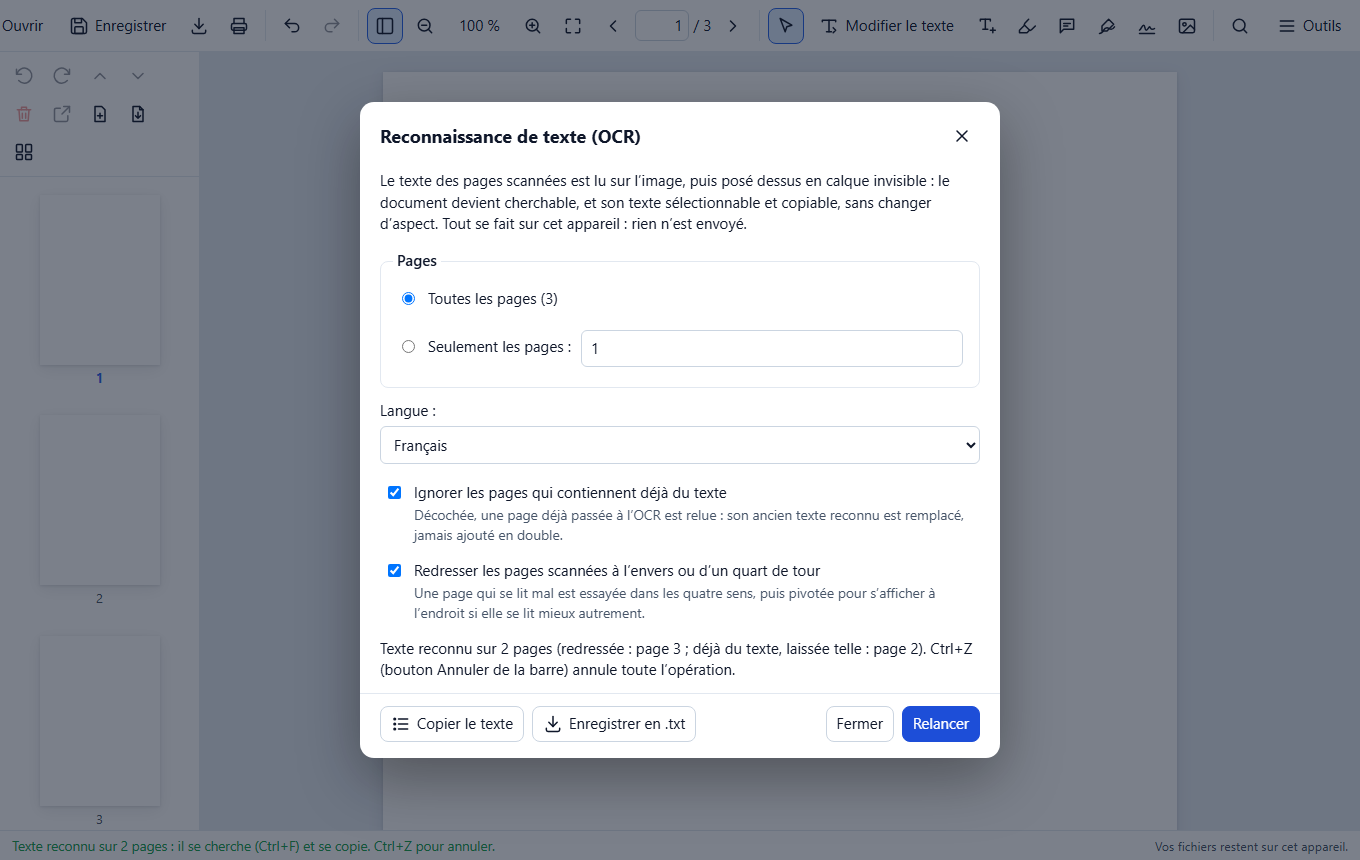
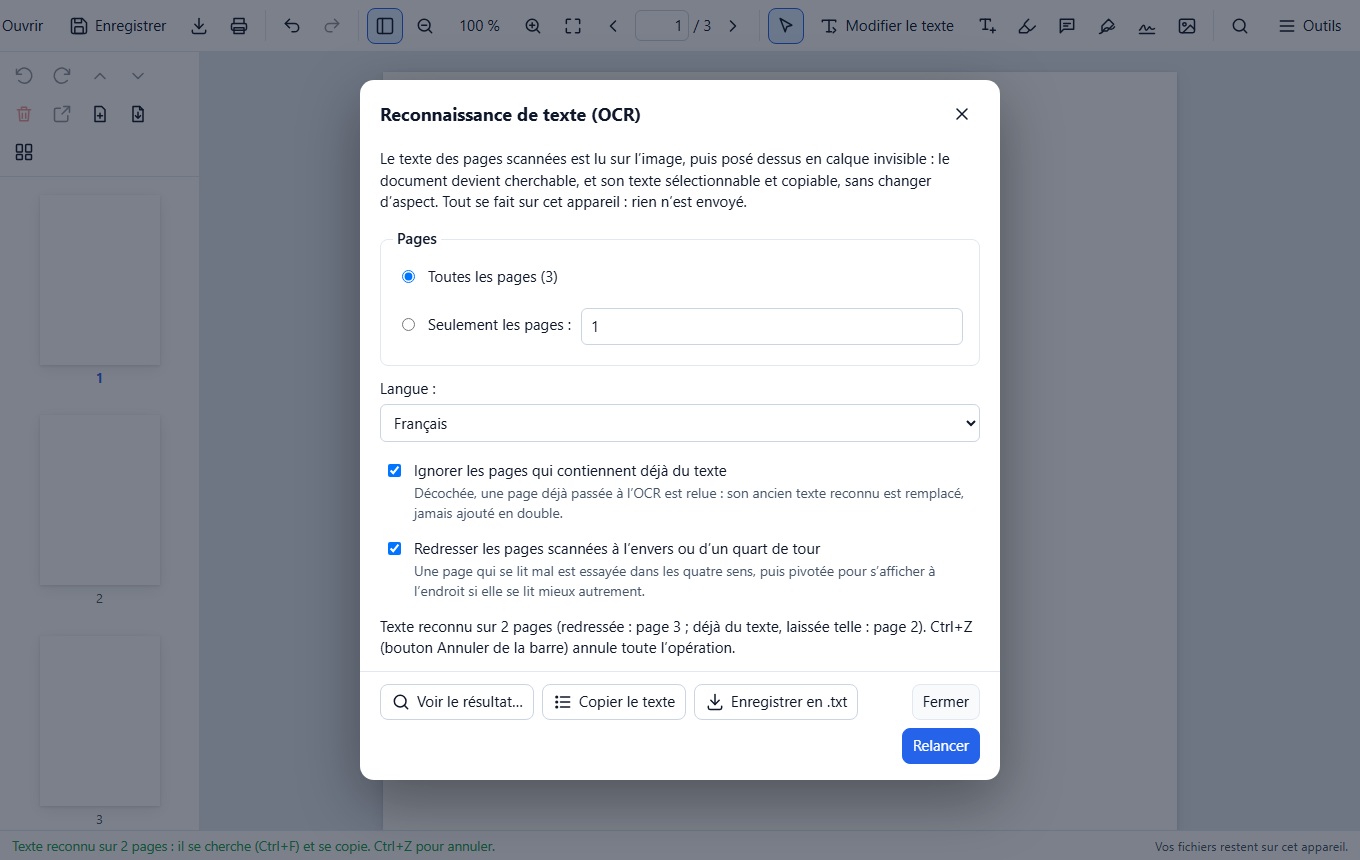
OCR : fenêtre « Texte reconnu » pour voir le résultat et y chercher un mot
« Voir le résultat… » à la fin de la reconnaissance : texte page par page, recherche sans
majuscules ni accents (Entrée, Maj+Entrée), « Montrer dans le document » qui ouvre la
recherche du document sur la même occurrence. Test unitaire, parcours sur ordinateur et
téléphone, captures.

Changed region(s): [[0.2471, 0.4233, 0.7412, 0.907], [0.2471, 0.0907, 0.7412, 0.4233], [0.4324, 0.4233, 0.7103, 0.4535]]

diff --git a/src/ui/ocr.ts b/src/ui/ocr.ts
@@ -13,7 +13,7 @@ import { appel } from "./moteur";
 import { el, fenetre, pluriel, telecharger } from "./dom";
 import { icone } from "./icones";
 import {
-  bilanVide, ErreurOcr, LANGUES_OCR, lirePlages, messageLangueAbsente, motsDeTesseract, reconnaitre, resumeOcr, texteExporte,
+  bilanVide, chercherTexteOcr, ErreurOcr, LANGUES_OCR, lirePlages, messageLangueAbsente, motsDeTesseract, reconnaitre, resumeOcr, texteExporte,
   type BilanOcr, type ImageOcr, type LecteurOcr, type MoteurOcr, type PageTesseract,
 } from "../moteur/ocrLecture";
 
@@ -138,11 +138,12 @@ export async function reconnaissanceTexte(app: Application) {
       el("span", { class: "indication", text: "Une page qui se lit mal est essayée dans les quatre sens, puis pivotée pour s’afficher à l’endroit si elle se lit mieux autrement." }))),
     progression, statut);
 
+  const voir = el("button", { type: "button", class: "bouton cadre", hidden: true, title: "Ouvrir le texte reconnu, page par page, et y chercher un mot", html: `${icone("chercher")}<span>Voir le résultat…</span>` });
   const copier = el("button", { type: "button", class: "bouton cadre", hidden: true, title: "Copier dans le presse-papiers le texte reconnu, page par page", html: `${icone("liste")}<span>Copier le texte</span>` });
   const exporter = el("button", { type: "button", class: "bouton cadre", hidden: true, html: `${icone("telecharger")}<span>Enregistrer en .txt</span>` });
   const fermer = el("button", { type: "button", class: "bouton cadre", text: "Fermer" });
   const lancer = el("button", { type: "button", class: "bouton principal", text: "Lancer" });
-  f.pied.append(copier, exporter, el("span", { style: { flex: "1" } }), fermer, lancer);
+  f.pied.append(voir, copier, exporter, el("span", { style: { flex: "1" } }), fermer, lancer);
 
   let enCours: { arreter: () => void } | null = null;
   let bilan: BilanOcr | null = null;
@@ -158,6 +159,11 @@ export async function reconnaissanceTexte(app: Application) {
   });
   f.dialog.addEventListener("close", () => enCours?.arreter());
 
+  let ouvrirResultat = false;
+  voir.addEventListener("click", () => {
+    ouvrirResultat = true;
+    f.fermer();
+  });
   copier.addEventListener("click", async () => {
     if (!bilan) return;
     try {
@@ -184,7 +190,7 @@ export async function reconnaissanceTexte(app: Application) {
       return;
     }
     controles.forEach((c) => (c.disabled = true));
-    copier.hidden = exporter.hidden = true;
+    voir.hidden = copier.hidden = exporter.hidden = true;
     fermer.textContent = "Annuler";
     progression.hidden = false;
     const barre = progression.firstElementChild as HTMLElement;
@@ -242,11 +248,91 @@ export async function reconnaissanceTexte(app: Application) {
       statut.textContent = resume;
       console.info(`OCR : ${pluriel(bilan.faites.length, "page")} en ${Math.round(performance.now() - debut)} ms`);
     }
-    copier.hidden = exporter.hidden = !Object.keys(bilan.textes).length;
+    voir.hidden = copier.hidden = exporter.hidden = !Object.keys(bilan.textes).length;
     statut.scrollIntoView({ block: "nearest" });
     if (modifie) await app.apresOcr(bilan);
   });
 
   setTimeout(() => lancer.focus(), 50);
   await f.fermee;
+  if (ouvrirResultat && bilan) await resultatOcr(app, bilan);
+}
+
+/** Fenêtre « Texte reconnu » : le texte page par page, avec une recherche qui ignore majuscules et accents.
+ * « Montrer dans le document » ferme la fenêtre et ouvre la recherche du document sur la même occurrence. */
+export async function resultatOcr(app: Application, bilan: BilanOcr) {
+  const f = fenetre("Texte reconnu", { classe: "large ocr-resultat" });
+  const champ = el("input", { type: "search", class: "entree", placeholder: "Chercher un mot dans le texte reconnu", "aria-label": "Chercher un mot dans le texte reconnu", title: "Les majuscules et les accents ne comptent pas. Entrée : occurrence suivante ; Maj+Entrée : précédente." });
+  const compte = el("span", { class: "compte", "aria-live": "polite" });
+  const zone = el("div", { class: "texte-ocr", tabindex: "0", "aria-label": "Texte reconnu" });
+  const pages = Object.keys(bilan.textes).map(Number).sort((a, b) => a - b);
+  const blocs = new Map<number, HTMLElement>();
+  for (const page of pages) {
+    const bloc = el("div", { class: "page-ocr" });
+    blocs.set(page, bloc);
+    zone.append(el("h3", { text: `Page ${page + 1}` }), bloc);
+  }
+  let occurrences = chercherTexteOcr(bilan.textes, "");
+  let courante = -1;
+  const afficher = () => {
+    for (const page of pages) {
+      const texte = bilan.textes[page];
+      const bloc = blocs.get(page)!;
+      bloc.replaceChildren();
+      let k = 0;
+      occurrences.forEach((o, n) => {
+        if (o.page !== page) return;
+        bloc.append(texte.slice(k, o.debut), el("mark", { class: n === courante ? "courante" : "", text: texte.slice(o.debut, o.fin) }));
+        k = o.fin;
+      });
+      bloc.append(texte.slice(k));
+    }
+    if (!champ.value.trim()) compte.textContent = "";
+    else if (!occurrences.length) compte.textContent = "Aucun résultat";
+    else compte.textContent = `${courante + 1} sur ${occurrences.length} · page ${occurrences[courante].page + 1}`;
+    montrer.disabled = !occurrences.length;
+    zone.querySelector("mark.courante")?.scrollIntoView({ block: "center" });
+  };
+  const avancer = (sens: number) => {
+    if (!occurrences.length) return;
+    courante = (courante + sens + occurrences.length) % occurrences.length;
+    afficher();
+  };
+  champ.addEventListener("input", () => {
+    occurrences = chercherTexteOcr(bilan.textes, champ.value);
+    courante = occurrences.length ? 0 : -1;
+    afficher();
+  });
+  champ.addEventListener("keydown", (e) => {
+    if (e.key !== "Enter") return;
+    e.preventDefault();
+    avancer(e.shiftKey ? -1 : 1);
+  });
+  const precedente = el("button", { type: "button", class: "bouton cadre", title: "Occurrence précédente (Maj+Entrée)", "aria-label": "Occurrence précédente", html: icone("haut"), onclick: () => avancer(-1) });
+  const suivante = el("button", { type: "button", class: "bouton cadre", title: "Occurrence suivante (Entrée)", "aria-label": "Occurrence suivante", html: icone("bas"), onclick: () => avancer(1) });
+  const montrer = el("button", { type: "button", class: "bouton principal", text: "Montrer dans le document", title: "Fermer cette fenêtre et surligner cette occurrence sur la page" });
+  const copier = el("button", { type: "button", class: "bouton cadre", html: `${icone("liste")}<span>Copier le texte</span>` });
+  copier.addEventListener("click", async () => {
+    try {
+      await navigator.clipboard.writeText(texteExporte(bilan));
+      compte.textContent = "Texte copié.";
+    } catch {
+      compte.textContent = "Copie refusée par le navigateur.";
+    }
+  });
+  let cible: { mot: string; page: number; rang: number } | null = null;
+  montrer.addEventListener("click", () => {
+    const o = occurrences[courante];
+    if (!o) return;
+    cible = { mot: bilan.textes[o.page].slice(o.debut, o.fin), page: o.page, rang: o.rang };
+    f.fermer();
+  });
+  f.corps.append(el("div", { class: "recherche-ocr" }, champ, precedente, suivante, compte), zone);
+  f.pied.append(copier, el("span", { style: { flex: "1" } }), el("button", { type: "button", class: "bouton cadre", text: "Fermer", onclick: () => f.fermer() }), montrer);
+  afficher();
+  setTimeout(() => champ.focus(), 50);
+  await f.fermee;
+  // (TypeScript ne voit pas l'affectation faite dans l'écouteur : type rappelé.)
+  const choisie = cible as { mot: string; page: number; rang: number } | null;
+  if (choisie) await app.montrerMotOcr(choisie.mot, choisie.page, choisie.rang);
 }

diff --git a/src/moteur/ocrLecture.ts b/src/moteur/ocrLecture.ts
@@ -302,3 +302,41 @@ export function messageLangueAbsente(codes: string[]): string {
   return `Le lecteur de texte et les données ${noms} n’ont pas pu être chargés. Sans connexion, ils ne sont disponibles ` +
     "qu’après une première reconnaissance de texte faite en ligne : reconnectez-vous, puis relancez.";
 }
+
+// Lettres accentuées ramenées à leur lettre de base, une pour une (même longueur, pour garder les positions) : la
+// recherche dans le texte reconnu ignore les accents, que l'OCR lit parfois mal.
+const AVEC_ACCENTS = "àáâãäåçèéêëìíîïñòóôõöùúûüýÿÀÁÂÃÄÅÇÈÉÊËÌÍÎÏÑÒÓÔÕÖÙÚÛÜÝŸ’";
+const SANS_ACCENTS = "aaaaaaceeeeiiiinooooouuuuyyAAAAAACEEEEIIIINOOOOOUUUUYY'";
+
+/** Texte en minuscules et sans accents, de même longueur, pour une recherche tolérante. */
+export function texteReplie(texte: string): string {
+  let r = "";
+  for (const c of texte) {
+    const k = AVEC_ACCENTS.indexOf(c);
+    r += k >= 0 ? SANS_ACCENTS[k] : c;
+  }
+  return r.toLowerCase();
+}
+
+export interface OccurrenceOcr {
+  page: number;
+  debut: number;
+  fin: number;
+  /** Rang de l'occurrence dans sa page (0 pour la première). */
+  rang: number;
+}
+
+/** Occurrences d'un mot dans le texte reconnu, page par page, sans tenir compte des majuscules ni des accents. */
+export function chercherTexteOcr(textes: Record<number, string>, aiguille: string): OccurrenceOcr[] {
+  const cherche = texteReplie(aiguille.trim());
+  const occurrences: OccurrenceOcr[] = [];
+  if (!cherche) return occurrences;
+  for (const page of Object.keys(textes).map(Number).sort((a, b) => a - b)) {
+    const texte = texteReplie(textes[page]);
+    let rang = 0;
+    for (let k = texte.indexOf(cherche); k >= 0; k = texte.indexOf(cherche, k + 1)) {
+      occurrences.push({ page, debut: k, fin: k + cherche.length, rang: rang++ });
+    }
+  }
+  return occurrences;
+}

diff --git a/src/style.css b/src/style.css
@@ -313,6 +313,14 @@ dialog legend { padding: 0 4px; font-weight: 600; }
 .choix-pages .entree { flex: 1 1 8em; min-width: 6em; }
 dialog.ocr .barre-progression { margin: 10px 0 4px; }
 .statut-ocr { min-height: 1.4em; margin: 8px 0 0; overflow-wrap: anywhere; }
+.recherche-ocr { display: flex; align-items: center; gap: 6px; flex-wrap: wrap; margin-bottom: 10px; }
+.recherche-ocr .entree { flex: 1 1 14em; }
+.recherche-ocr .compte { min-width: 9em; color: var(--texte-2); }
+.texte-ocr { border: 1px solid var(--bord); border-radius: 8px; padding: 4px 14px 12px; max-height: 58dvh; overflow: auto; }
+.texte-ocr h3 { font-size: 0.95rem; margin: 12px 0 4px; color: var(--accent); }
+.page-ocr { white-space: pre-wrap; overflow-wrap: anywhere; line-height: 1.5; }
+.texte-ocr mark { background: #fde68a; color: #111827; border-radius: 2px; }
+.texte-ocr mark.courante { background: #f97316; color: #fff; }
 .legende { display: flex; flex-wrap: wrap; gap: 10px; font-size: 0.9em; }
 .legende span { display: inline-flex; align-items: center; gap: 4px; }
 .legende i { width: 12px; height: 12px; border-radius: 3px; display: inline-block; box-shadow: 0 0 0 1px var(--bord); }

diff --git a/tests/ocr.test.ts b/tests/ocr.test.ts
@@ -213,3 +213,16 @@ describe("OCR : saisie et sens de lecture", () => {
     expect(lignesOcr(mots).map((l) => l.mots.map((m) => m[2]))).toEqual([["Total"]]);
   });
 });
+
+describe("recherche dans le texte reconnu", async () => {
+  const { chercherTexteOcr, texteReplie } = await import("../src/moteur/ocrLecture");
+  it("ignore majuscules et accents, garde les positions et le rang dans la page", () => {
+    expect(texteReplie("Déjà Œuf’s")).toHaveLength("Déjà Œuf’s".length);
+    const textes = { 0: "La séance est ouverte.\nFin de SEANCE.", 2: "Une séance ; deux séances." };
+    const o = chercherTexteOcr(textes, " seance ");
+    expect(o.map((x) => [x.page, x.rang])).toEqual([[0, 0], [0, 1], [2, 0], [2, 1]]);
+    expect(textes[0].slice(o[1].debut, o[1].fin)).toBe("SEANCE");
+    expect(textes[2].slice(o[2].debut, o[2].fin)).toBe("séance");
+    expect(chercherTexteOcr(textes, "   ")).toEqual([]);
+  });
+});

diff --git a/src/ui/app.ts b/src/ui/app.ts
@@ -1351,6 +1351,21 @@ export class Application {
     if (reinitialiser && this.occurrenceCourante >= 0) this.montrerOccurrence();
   }
 
+  /** Depuis le texte reconnu : recherche du document sur ce mot (sans majuscules ni accents), à la même occurrence
+   * de la même page, surlignée sur le scan. */
+  async montrerMotOcr(mot: string, page: number, rang: number) {
+    this.afficherRecherche();
+    this.champRecherche!.value = mot;
+    this.caseCasse!.checked = false;
+    this.caseAccents!.checked = false;
+    await this.lancerRecherche(false);
+    const surPage = this.occurrences.map((o, k) => (o.page === page ? k : -1)).filter((k) => k >= 0);
+    if (surPage.length) {
+      this.occurrenceCourante = surPage[Math.min(rang, surPage.length - 1)];
+      this.montrerOccurrence();
+    } else this.allerA(page);
+  }
+
   majCompte() {
     if (!this.compteRecherche) return;
     const n = this.occurrences.length;

diff --git a/README.md b/README.md
@@ -82,7 +82,10 @@ calque est gardé à l'enregistrement. Rien n'est envoyé : la lecture se fait d
 - La progression s'affiche page par page. **Annuler** arrête la lecture aussitôt : la page en cours n'est pas
   modifiée, les pages déjà lues gardent leur texte, et relancer l'OCR reprend où elle s'était arrêtée. **Ctrl+Z**
   annule toute l'opération d'un coup.
-- À la fin, **Copier le texte** ou **Enregistrer en .txt** le texte reconnu, page par page.
+- À la fin, **Voir le résultat…** ouvre le texte reconnu, page par page, dans une fenêtre où **chercher un mot**
+  (sans tenir compte des majuscules ni des accents ; Entrée et Maj+Entrée passent d'une occurrence à l'autre).
+  **Montrer dans le document** referme la fenêtre et surligne le mot sur le scan. Le texte reconnu peut aussi être
+  **copié** ou **enregistré en .txt**.
 - En mode « Modifier le texte », le texte reconnu, encadré en pointillés gris, **ne se modifie pas** : il est
   invisible, et un texte réécrit s'afficherait par-dessus l'image. « Remplacer » le laisse aussi tel quel. Pour le
   corriger, refaites l'OCR de la page.
